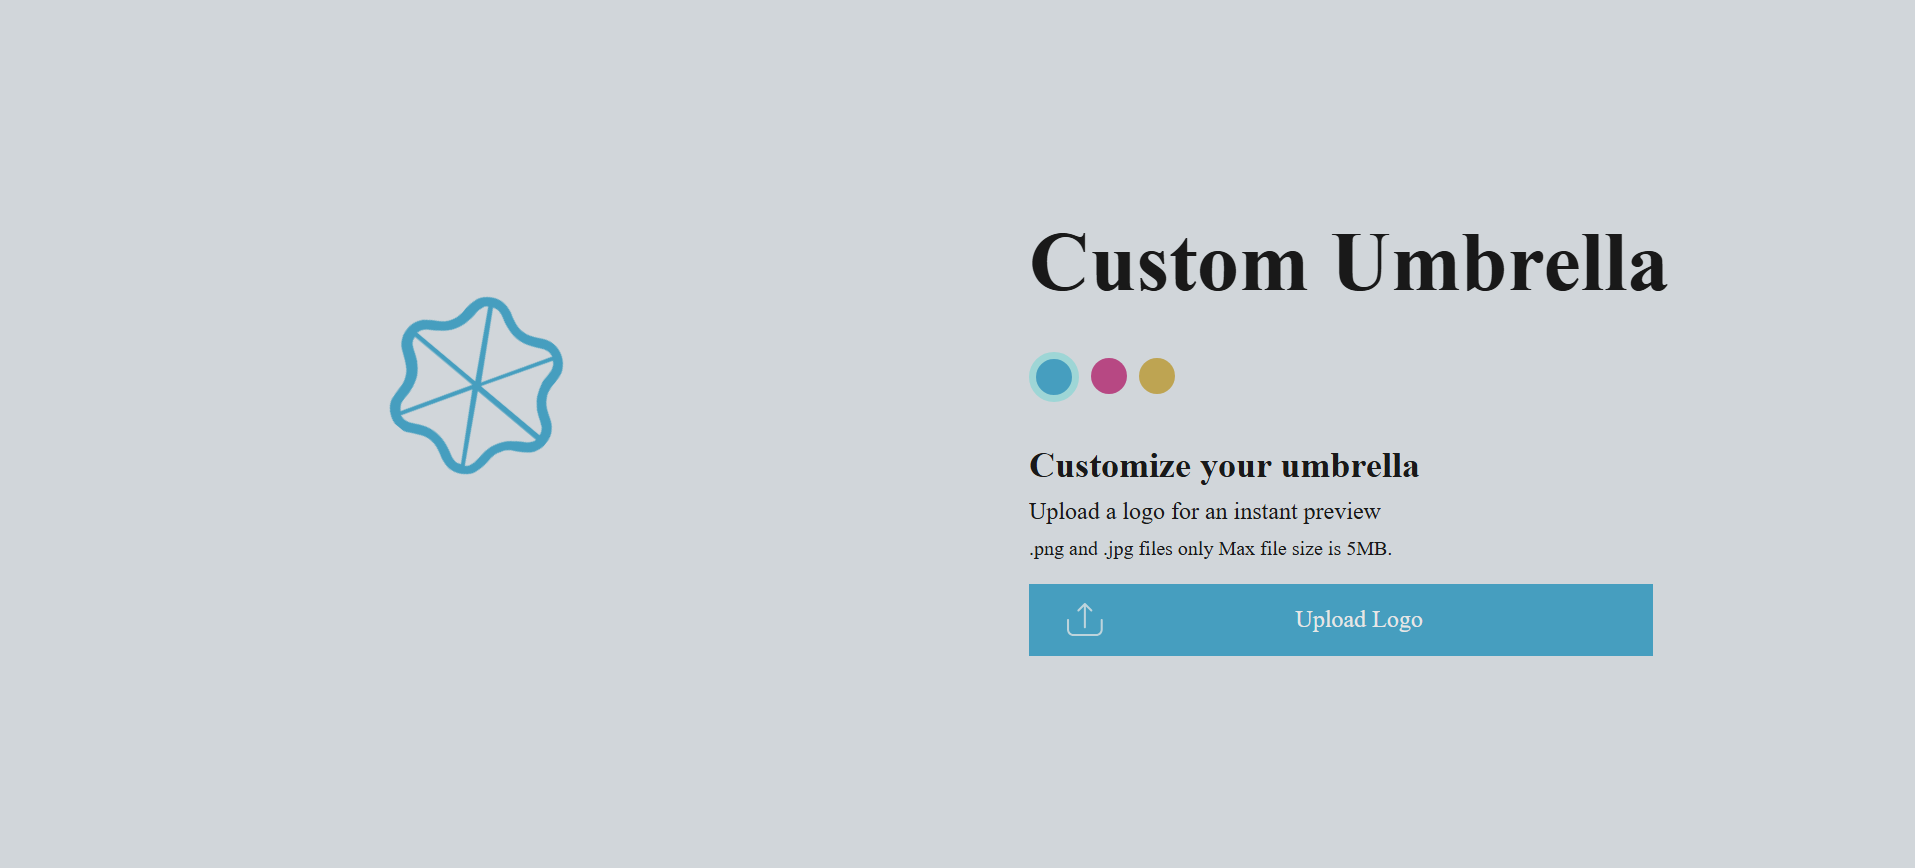
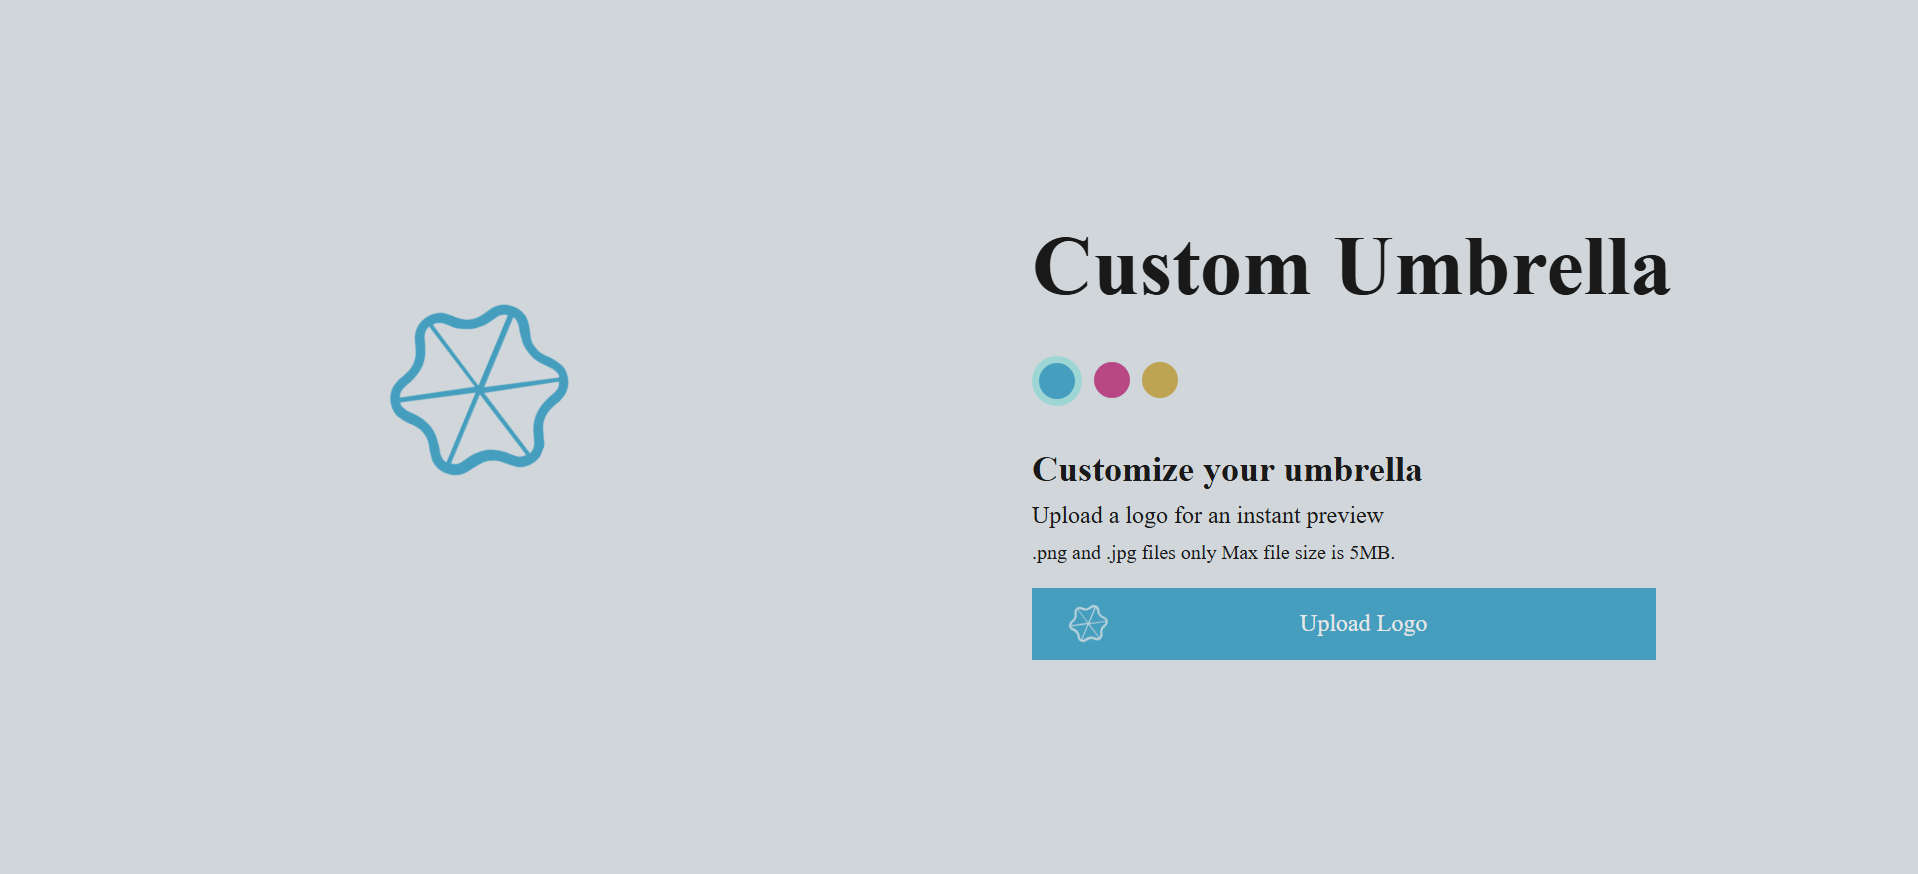
spinner update

diff --git a/Index.html b/Index.html
@@ -13,7 +13,9 @@
     <div class="container bg-blue-100" id="container">
 
         <div class="left flex-col">
-            <svg style="display: none;" id="loader" class="loader svg-blue" xmlns="http://www.w3.org/2000/svg"  aria-hidden="true"  focusable="false" role="presentation" viewBox="0 0 28.3 31.2" version="1.1"><path id="loaderpath" d="M25.1 23.6c-.3.1-.6.2-1 .2-.6.1-1.3 0-2.1.1s-1.7.3-2.6.8c-.8.5-1.4 1.1-1.9 1.6-.7.9-1.1 1.7-1.5 2.2-.2.3-.4.4-.7.6-.2.1-.4.2-.8.2v-13L26 22.9c-.3.3-.6.5-.9.7m-11.3 5.9c-.5-.1-.8-.2-1-.4-.2-.2-.5-.4-.7-.7-.3-.5-.7-1.1-1.2-1.7-.5-.7-1.1-1.3-2.1-1.9-.8-.5-1.6-.7-2.3-.8-1.1-.2-2-.1-2.7-.2l-.9-.3c-.2-.1-.4-.3-.6-.6l11.4-6.6v13.2zM1.7 21.3c0-.3.1-.6.2-1 .2-.5.6-1.1.9-1.9.3-.8.6-1.7.6-2.8v-.1c0-1.5-.6-2.6-1-3.5l-.6-1.2c-.1-.4-.2-.7-.2-1 0-.3.1-.6.2-1l11.4 6.6-11.3 6.8c-.1-.4-.2-.7-.2-.9M3.2 7.6c.3-.1.6-.2 1-.2.6-.1 1.3 0 2.1-.1.7-.2 1.6-.4 2.5-.9.8-.5 1.4-1.1 1.9-1.6.7-.9 1.1-1.7 1.5-2.2.2-.3.4-.4.7-.6.2-.1.5-.2.8-.2V15L2.3 8.3c.3-.4.6-.6.9-.7m11.3-5.9c.5 0 .8.2 1 .4.2.2.5.4.7.7.3.5.7 1.1 1.2 1.7.5.7 1.1 1.3 2.1 1.9.8.5 1.6.7 2.4.8 1.1.1 2 .1 2.7.2l.9.3c.2.1.4.3.6.6l-11.4 6.6V1.7zm12.1 8.2c0 .3-.1.6-.2 1-.2.5-.6 1.1-.9 1.9-.3.8-.6 1.7-.6 2.8v.2c0 1.5.5 2.6 1 3.5l.6 1.2c.1.4.2.7.2 1 0 .3-.1.6-.2.9l-11.4-6.6L26.3 9c.2.4.3.7.3.9m.4 7.8c-.3-.6-.5-1.3-.5-2v-.1c0-1 .4-1.8.8-2.7.2-.4.5-.8.6-1.3.2-.5.3-1 .3-1.6 0-.7-.2-1.4-.6-2.1-.5-.8-1.1-1.4-1.8-1.7-.5-.2-1-.3-1.5-.4-.7-.1-1.4-.1-2.1-.1-.7-.1-1.3-.2-1.9-.6-.6-.3-1-.7-1.4-1.2-.5-.9-.9-1.7-1.6-2.5-.3-.4-.7-.8-1.3-1-.5-.3-1.1-.4-1.9-.4-1 0-1.8.2-2.4.7-.5.3-.8.7-1.1 1.1-.4.6-.7 1.2-1.1 1.7-.4.5-.8 1-1.5 1.4-.6.4-1.2.5-1.8.6-.9.1-1.8 0-2.8.2-.5.1-1 .3-1.5.7-.5.3-.9.8-1.3 1.4C.2 8.5 0 9.3 0 10c0 .6.1 1.1.3 1.6.3.7.7 1.3 1 2 .3.6.5 1.3.5 2.1v.1c0 1.1-.4 1.8-.8 2.7-.2.4-.5.8-.6 1.3-.2.5-.3 1-.3 1.6 0 .7.2 1.4.6 2.1.5.8 1.1 1.4 1.8 1.7.5.2 1 .3 1.5.4.7.1 1.4.1 2.1.1.7.1 1.3.2 2 .6.6.3 1 .7 1.4 1.2.5.7.9 1.5 1.6 2.3.3.4.7.7 1.3 1 .5.3 1.2.4 1.9.4 1 0 1.8-.3 2.4-.7.5-.3.8-.7 1.1-1.1.4-.6.8-1.2 1.2-1.7.4-.5.8-1 1.5-1.4.6-.3 1.1-.5 1.7-.6.9-.1 1.8 0 2.8-.2.5-.1 1-.3 1.5-.6s.9-.8 1.3-1.4c.4-.7.6-1.5.6-2.1 0-.6-.1-1.1-.3-1.6-.5-.9-.8-1.5-1.1-2.1"/></svg>
+            <svg style="display: none;" id="loader" class="loader svg-blue" xmlns="http://www.w3.org/2000/svg"  aria-hidden="true"  focusable="false" role="presentation" viewBox="0 0 28.3 31.2" version="1.1">
+                <path id="loaderpath" d="M25.1 23.6c-.3.1-.6.2-1 .2-.6.1-1.3 0-2.1.1s-1.7.3-2.6.8c-.8.5-1.4 1.1-1.9 1.6-.7.9-1.1 1.7-1.5 2.2-.2.3-.4.4-.7.6-.2.1-.4.2-.8.2v-13L26 22.9c-.3.3-.6.5-.9.7m-11.3 5.9c-.5-.1-.8-.2-1-.4-.2-.2-.5-.4-.7-.7-.3-.5-.7-1.1-1.2-1.7-.5-.7-1.1-1.3-2.1-1.9-.8-.5-1.6-.7-2.3-.8-1.1-.2-2-.1-2.7-.2l-.9-.3c-.2-.1-.4-.3-.6-.6l11.4-6.6v13.2zM1.7 21.3c0-.3.1-.6.2-1 .2-.5.6-1.1.9-1.9.3-.8.6-1.7.6-2.8v-.1c0-1.5-.6-2.6-1-3.5l-.6-1.2c-.1-.4-.2-.7-.2-1 0-.3.1-.6.2-1l11.4 6.6-11.3 6.8c-.1-.4-.2-.7-.2-.9M3.2 7.6c.3-.1.6-.2 1-.2.6-.1 1.3 0 2.1-.1.7-.2 1.6-.4 2.5-.9.8-.5 1.4-1.1 1.9-1.6.7-.9 1.1-1.7 1.5-2.2.2-.3.4-.4.7-.6.2-.1.5-.2.8-.2V15L2.3 8.3c.3-.4.6-.6.9-.7m11.3-5.9c.5 0 .8.2 1 .4.2.2.5.4.7.7.3.5.7 1.1 1.2 1.7.5.7 1.1 1.3 2.1 1.9.8.5 1.6.7 2.4.8 1.1.1 2 .1 2.7.2l.9.3c.2.1.4.3.6.6l-11.4 6.6V1.7zm12.1 8.2c0 .3-.1.6-.2 1-.2.5-.6 1.1-.9 1.9-.3.8-.6 1.7-.6 2.8v.2c0 1.5.5 2.6 1 3.5l.6 1.2c.1.4.2.7.2 1 0 .3-.1.6-.2.9l-11.4-6.6L26.3 9c.2.4.3.7.3.9m.4 7.8c-.3-.6-.5-1.3-.5-2v-.1c0-1 .4-1.8.8-2.7.2-.4.5-.8.6-1.3.2-.5.3-1 .3-1.6 0-.7-.2-1.4-.6-2.1-.5-.8-1.1-1.4-1.8-1.7-.5-.2-1-.3-1.5-.4-.7-.1-1.4-.1-2.1-.1-.7-.1-1.3-.2-1.9-.6-.6-.3-1-.7-1.4-1.2-.5-.9-.9-1.7-1.6-2.5-.3-.4-.7-.8-1.3-1-.5-.3-1.1-.4-1.9-.4-1 0-1.8.2-2.4.7-.5.3-.8.7-1.1 1.1-.4.6-.7 1.2-1.1 1.7-.4.5-.8 1-1.5 1.4-.6.4-1.2.5-1.8.6-.9.1-1.8 0-2.8.2-.5.1-1 .3-1.5.7-.5.3-.9.8-1.3 1.4C.2 8.5 0 9.3 0 10c0 .6.1 1.1.3 1.6.3.7.7 1.3 1 2 .3.6.5 1.3.5 2.1v.1c0 1.1-.4 1.8-.8 2.7-.2.4-.5.8-.6 1.3-.2.5-.3 1-.3 1.6 0 .7.2 1.4.6 2.1.5.8 1.1 1.4 1.8 1.7.5.2 1 .3 1.5.4.7.1 1.4.1 2.1.1.7.1 1.3.2 2 .6.6.3 1 .7 1.4 1.2.5.7.9 1.5 1.6 2.3.3.4.7.7 1.3 1 .5.3 1.2.4 1.9.4 1 0 1.8-.3 2.4-.7.5-.3.8-.7 1.1-1.1.4-.6.8-1.2 1.2-1.7.4-.5.8-1 1.5-1.4.6-.3 1.1-.5 1.7-.6.9-.1 1.8 0 2.8-.2.5-.1 1-.3 1.5-.6s.9-.8 1.3-1.4c.4-.7.6-1.5.6-2.1 0-.6-.1-1.1-.3-1.6-.5-.9-.8-1.5-1.1-2.1"/>
+            </svg>
             <img src="./assets/Blue_umbrella.png" alt="umbrella" id="umbrella"/>
             <!-- uploaded image comes over here -->
                 <div class="SelectedIcon" id="selectedIcon">
@@ -33,9 +35,13 @@
             <small>.png and .jpg files only Max file size is 5MB.</small>
             <div class="uploader bg-blue" id="uploaderIcon">
                 <input type="file" id="fileupload" accept="image/*" style="display:none;" />
-                <svg class="svg-white uploaderIcon"  xmlns="http://www.w3.org/2000/svg" class="uploaderIcon" aria-hidden="true" focusable="false" role="presentation" viewBox="0 0 24 22" width="24" height="22" version="1.1">
+                <svg class="svg-white uploaderIcon" id="uploaderIconsvg"  xmlns="http://www.w3.org/2000/svg" class="uploaderIcon" aria-hidden="true" focusable="false" role="presentation" viewBox="0 0 24 22" width="24" height="22" version="1.1">
                     <path d="M23.1505 10.7255C22.7712 10.7255 22.4677 11.0277 22.4677 11.4056V17.5919C22.4677 19.2746 21.0919 20.6398 19.4076 20.6398H4.42576C2.73638 20.6398 1.36566 19.2695 1.36566 17.5919V11.3048C1.36566 10.927 1.06218 10.6247 0.682831 10.6247C0.30348 10.6247 0 10.927 0 11.3048V17.5919C0 20.0252 1.9878 22 4.42576 22H19.4076C21.8506 22 23.8333 20.0202 23.8333 17.5919V11.4056C23.8333 11.0328 23.5299 10.7255 23.1505 10.7255Z"/>
-                    <path d="M8.05759 5.48615L11.234 2.32242V16.1209C11.234 16.4987 11.5375 16.801 11.9168 16.801C12.2962 16.801 12.5997 16.4987 12.5997 16.1209V2.32242L15.7761 5.48615C15.9076 5.61713 16.0846 5.68766 16.2566 5.68766C16.4336 5.68766 16.6056 5.62217 16.7371 5.48615C17.0052 5.21914 17.0052 4.79093 16.7371 4.52393L12.3974 0.201511C12.2709 0.0755667 12.0939 0 11.9168 0C11.7348 0 11.5628 0.070529 11.4363 0.201511L7.09656 4.52393C6.82849 4.79093 6.82849 5.21914 7.09656 5.48615C7.35958 5.74811 7.79457 5.74811 8.05759 5.48615Z"/></svg>
+                    <path d="M8.05759 5.48615L11.234 2.32242V16.1209C11.234 16.4987 11.5375 16.801 11.9168 16.801C12.2962 16.801 12.5997 16.4987 12.5997 16.1209V2.32242L15.7761 5.48615C15.9076 5.61713 16.0846 5.68766 16.2566 5.68766C16.4336 5.68766 16.6056 5.62217 16.7371 5.48615C17.0052 5.21914 17.0052 4.79093 16.7371 4.52393L12.3974 0.201511C12.2709 0.0755667 12.0939 0 11.9168 0C11.7348 0 11.5628 0.070529 11.4363 0.201511L7.09656 4.52393C6.82849 4.79093 6.82849 5.21914 7.09656 5.48615C7.35958 5.74811 7.79457 5.74811 8.05759 5.48615Z"/>
+                </svg>
+                <svg id="loader2"  style="display:none; width: 26px; height: 26px;"  class="loader svg-white uploaderIcon" xmlns="http://www.w3.org/2000/svg"  aria-hidden="true"  focusable="false" role="presentation" viewBox="0 0 28.3 31.2" version="1.1">
+                    <path id="loaderpath" d="M25.1 23.6c-.3.1-.6.2-1 .2-.6.1-1.3 0-2.1.1s-1.7.3-2.6.8c-.8.5-1.4 1.1-1.9 1.6-.7.9-1.1 1.7-1.5 2.2-.2.3-.4.4-.7.6-.2.1-.4.2-.8.2v-13L26 22.9c-.3.3-.6.5-.9.7m-11.3 5.9c-.5-.1-.8-.2-1-.4-.2-.2-.5-.4-.7-.7-.3-.5-.7-1.1-1.2-1.7-.5-.7-1.1-1.3-2.1-1.9-.8-.5-1.6-.7-2.3-.8-1.1-.2-2-.1-2.7-.2l-.9-.3c-.2-.1-.4-.3-.6-.6l11.4-6.6v13.2zM1.7 21.3c0-.3.1-.6.2-1 .2-.5.6-1.1.9-1.9.3-.8.6-1.7.6-2.8v-.1c0-1.5-.6-2.6-1-3.5l-.6-1.2c-.1-.4-.2-.7-.2-1 0-.3.1-.6.2-1l11.4 6.6-11.3 6.8c-.1-.4-.2-.7-.2-.9M3.2 7.6c.3-.1.6-.2 1-.2.6-.1 1.3 0 2.1-.1.7-.2 1.6-.4 2.5-.9.8-.5 1.4-1.1 1.9-1.6.7-.9 1.1-1.7 1.5-2.2.2-.3.4-.4.7-.6.2-.1.5-.2.8-.2V15L2.3 8.3c.3-.4.6-.6.9-.7m11.3-5.9c.5 0 .8.2 1 .4.2.2.5.4.7.7.3.5.7 1.1 1.2 1.7.5.7 1.1 1.3 2.1 1.9.8.5 1.6.7 2.4.8 1.1.1 2 .1 2.7.2l.9.3c.2.1.4.3.6.6l-11.4 6.6V1.7zm12.1 8.2c0 .3-.1.6-.2 1-.2.5-.6 1.1-.9 1.9-.3.8-.6 1.7-.6 2.8v.2c0 1.5.5 2.6 1 3.5l.6 1.2c.1.4.2.7.2 1 0 .3-.1.6-.2.9l-11.4-6.6L26.3 9c.2.4.3.7.3.9m.4 7.8c-.3-.6-.5-1.3-.5-2v-.1c0-1 .4-1.8.8-2.7.2-.4.5-.8.6-1.3.2-.5.3-1 .3-1.6 0-.7-.2-1.4-.6-2.1-.5-.8-1.1-1.4-1.8-1.7-.5-.2-1-.3-1.5-.4-.7-.1-1.4-.1-2.1-.1-.7-.1-1.3-.2-1.9-.6-.6-.3-1-.7-1.4-1.2-.5-.9-.9-1.7-1.6-2.5-.3-.4-.7-.8-1.3-1-.5-.3-1.1-.4-1.9-.4-1 0-1.8.2-2.4.7-.5.3-.8.7-1.1 1.1-.4.6-.7 1.2-1.1 1.7-.4.5-.8 1-1.5 1.4-.6.4-1.2.5-1.8.6-.9.1-1.8 0-2.8.2-.5.1-1 .3-1.5.7-.5.3-.9.8-1.3 1.4C.2 8.5 0 9.3 0 10c0 .6.1 1.1.3 1.6.3.7.7 1.3 1 2 .3.6.5 1.3.5 2.1v.1c0 1.1-.4 1.8-.8 2.7-.2.4-.5.8-.6 1.3-.2.5-.3 1-.3 1.6 0 .7.2 1.4.6 2.1.5.8 1.1 1.4 1.8 1.7.5.2 1 .3 1.5.4.7.1 1.4.1 2.1.1.7.1 1.3.2 2 .6.6.3 1 .7 1.4 1.2.5.7.9 1.5 1.6 2.3.3.4.7.7 1.3 1 .5.3 1.2.4 1.9.4 1 0 1.8-.3 2.4-.7.5-.3.8-.7 1.1-1.1.4-.6.8-1.2 1.2-1.7.4-.5.8-1 1.5-1.4.6-.3 1.1-.5 1.7-.6.9-.1 1.8 0 2.8-.2.5-.1 1-.3 1.5-.6s.9-.8 1.3-1.4c.4-.7.6-1.5.6-2.1 0-.6-.1-1.1-.3-1.6-.5-.9-.8-1.5-1.1-2.1"/>
+                </svg>
                 <div class="bg-blue" id="btnText">Upload Logo</div>
             </div>
         </div>

diff --git a/script.js b/script.js
@@ -6,9 +6,11 @@ const pink = document.getElementById('pink');
 const yellow = document.getElementById('yellow');
 const container = document.getElementById('container');
 const loader = document.getElementById('loader');
+const loader2 = document.getElementById('loader2');
 const umbrella = document.getElementById('umbrella');
 const displayLogo = document.getElementById('displayLogo');
 const loaderPath = document.getElementById('loaderpath');
+const uploaderIcon = document.getElementById('uploaderIconsvg');
 
 let isUploaded = false; // file uploaded or not check flag 
 let currentColor = "blue"; // currentColor color flag to update active color
@@ -57,7 +59,9 @@ yellow.addEventListener('click',()=>{
 const loadingScreen = (newUmbrellaImage) => {
     // loading is marked as true to avoid any other listener getting triggered before this...
     isLoading= true;
+    uploaderIcon.style.display = 'none';
     loader.style.display = 'block'
+    loader2.style.display = 'block'
     umbrella.style.display = 'none'
     displayLogo.style.display = 'none'
     displayLogo.classList.remove('showUmbrella')
@@ -66,7 +70,9 @@ const loadingScreen = (newUmbrellaImage) => {
         loader.style.display = 'none'
         umbrella.style.display = 'block'
         umbrella.className = 'showUmbrella'
-        if(isUploaded){ // this will only be set as block if file is uploaded
+        uploaderIcon.style.display = 'block';
+        loader2.style.display = 'none'
+        if(isUploaded){ // this will only be set as block ifup is uploaded
             displayLogo.style.display = 'block'
             displayLogo.className = 'showUmbrella'
         }

diff --git a/style.css b/style.css
@@ -230,9 +230,6 @@ h2, p ,small{
         padding:0;
         margin:0;
     }
-    .uploader{
-        width: 10rem;
-    }
     .SelectedIcon{
         height: 2.5rem;
         width: 6rem;
@@ -240,7 +237,7 @@ h2, p ,small{
         overflow: visible;
     }
     .uploaderIcon{
-        right: 1rem;
+        right: 3.5rem;
     }
 }
 /* @media only screen and (max-width:1090px) {
@@ -260,6 +257,9 @@ h2, p ,small{
 } */
 /* tablets and phones  */
 @media only screen and (max-width:768px) {
+    .uploaderIcon{
+        right: 3rem;
+    }
     .container{
         flex-direction: column;
     }
